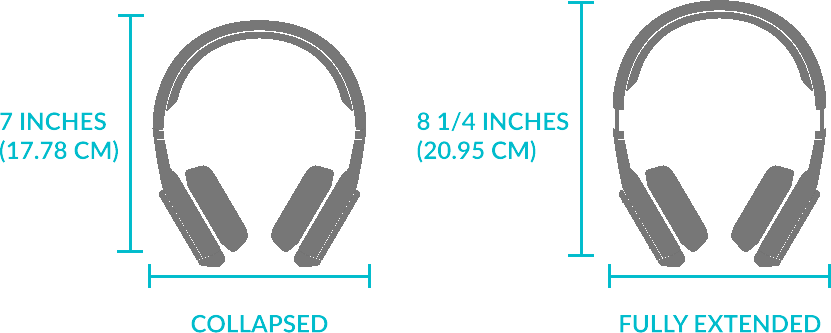
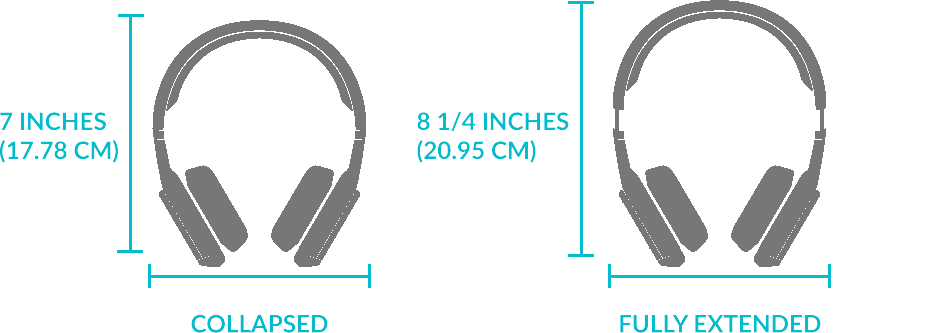
Fixed mobile optimization on Perfectly Tuned Sound

diff --git a/static/css/sound.css b/static/css/sound.css
@@ -62,13 +62,47 @@ section#section-details	{
 	padding-top: 150px;
 }
 
+section#section-details	img {
+	display: block;
+}
+
 section#section-details	img#frequency-response-graph {
-	margin-top: 20px;
-	width: 100%;
+	margin: 20px auto 0 auto;
+	width: 90%;
 }
 
 section#section-details	img#headphone-dim {
-	display: block;
 	margin: 40px auto 0 auto;
 	width: 70%;
+}
+
+@media (max-width: 991px) {
+	section#section-details	{
+		background-color: #ccc;
+		background-image: none;
+		padding-left: 15%;
+		padding-right: 15%;
+	}
+}
+@media (max-width: 767px) {
+	section#section-details	{
+		padding-left: 10%;
+		padding-right: 10%;
+	}
+	section#section-details	img#frequency-response-graph {
+		display: block;
+		width: 100%;
+	}
+	section#section-details	img#headphone-dim {
+		width: 80%;
+	}
+}
+@media (max-width: 479px) {
+	section#section-details h3 {
+	    font-size: 2.2em;
+	}
+	section#section-details	{
+		padding-left: 0;
+		padding-right: 0;
+	}
 }
